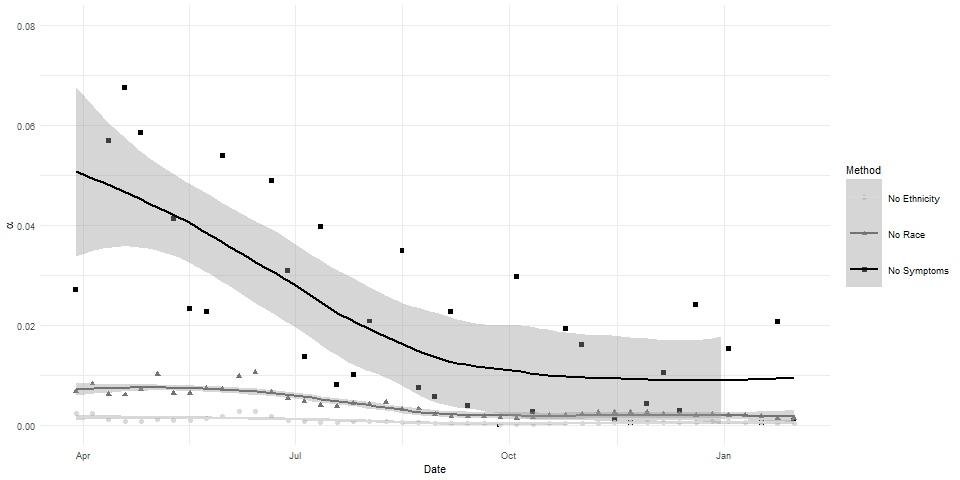
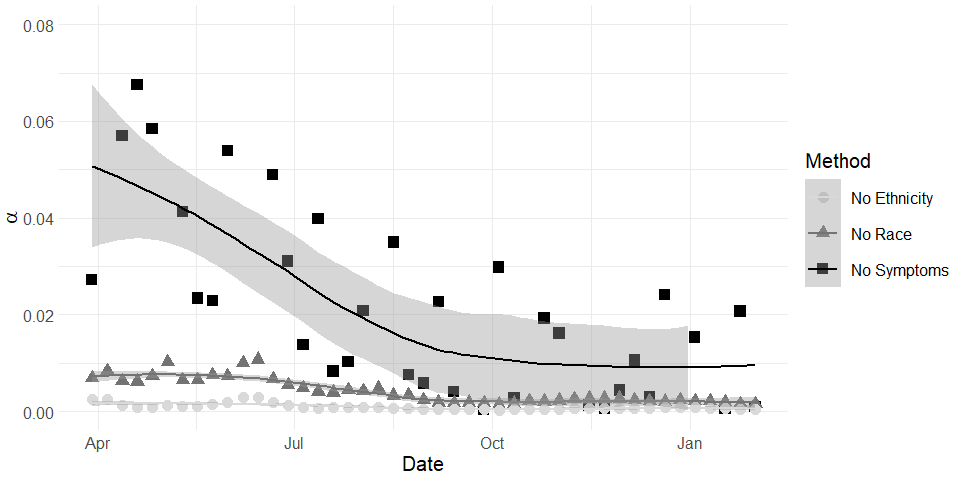
Sensitivity analysis complete :)

diff --git a/write-up/covid-supplement-writeup.tex b/write-up/covid-supplement-writeup.tex
@@ -1022,7 +1022,7 @@ E[ Y_t | i_t, x_t, u_t] &= l_t(i_t, x_t) + \delta_t u_t
 \end{align*}
 for functions~$h_t$ and $l_t$ that depend on time. Re-arranging terms we have
 $$
-E[ Y_t | i_t x_t, u_t ] = l_t(i_t,x)  + \frac{\delta_t}{\alpha_t} \left( \logit \pi \left( I_{t} = 1  | x_{t}, u_{t} \right) - h_t (x_t) \right)
+E[ Y_t | i_t, x_t, u_t ] = l_t(i_t,x)  + \frac{\delta_t}{\alpha_t} \left( \logit \pi \left( I_{t} = 1  | x_{t}, u_{t} \right) - h_t (x_t) \right)
 $$
 The key idea in~\cite{Imbens2003} is that positing a distribution on $\pi(I_t = 1 | x_y, u_t)$ directly allows one to circumvent the need to specify a distribution for~$U_t$, a highly non-trivial task.
 
@@ -1038,7 +1038,7 @@ Y_t | I_t, X_t, U_t &\sim \text{Bern}(\rho_t(X_t, U_t))
 \end{equation}
 The time-varying sensitivity parameter~$\alpha_t \in (0,1)$  controls the influence of the unobserved confounder~$U_t$ on selection propensity. In particular, $\alpha_t$ measures the change in belief of how likely an individual self-selects into the non-probabilistic sample at time~$t$:
 $$
-\alpha_t = E[ \pi_t (X_t,U_t) | I = 1] - E[ \pi_t (X_t,U_t) | I = 0].
+\alpha_t = E[ \pi_t (X_t,U_t) | I_t = 1] - E[ \pi_t (X_t,U_t) | I_t = 0].
 $$
 The sensitivity model satisfies the requirement that the self-selection propensity and conditional expectation outcome model can match the observed data:
 \begin{align*}
@@ -1121,7 +1121,7 @@ Note that this is an expectation over the population.  Thus, estimation requires
 
 Following~\cite{Veitch2020}, we re-express the outcome-confounder strength in terms of the partial coefficient of determination
 $$
-R_t^2 (\alpha_t, \delta_t) = \frac{\EE [( Y_{J,t} - Q_t(1,X_{J,t}) )^2 | I_{J,t}=1 ] - \EE[ (Y_{J,t} - \EE[ Y_{J,t} | X_{J,t}, U_{J,t} ])^2 | I_{J,t} = 1]}{E[(Y_{J,t} - Q_t(1,X_{J,t}))^2 | I = 1]}
+R_t^2 (\alpha_t, \delta_t) = \frac{\EE [( Y_{J,t} - Q_t(1,X_{J,t}) )^2 | I_{J,t}=1 ] - \EE[ (Y_{J,t} - \EE[ Y_{J,t} | X_{J,t}, U_{J,t} ])^2 | I_{J,t} = 1]}{E[(Y_{J,t} - Q_t(1,X_{J,t}))^2 | I_t = 1]}
 $$
 in terms of $\delta_t^2$. To do so, write
 \begin{align*}
@@ -1151,13 +1151,13 @@ which is a more convenient form when trying to estimate the parameter from obser
 
 \subsection{Calibration of sensitivity parameters}
 
-Based on~\eqref{eq:partialcoef} and~\eqref{eq:alphaest}, one can use the probability and nonprobability samples to calibrate the sensitivity parameters to be in line with the observed covariate influence on treatment and outcome.  That is, for a given observed covariate~$Z_{J,t}$, we wish to measure the degree of influence it has on self-selection and outcome given the other observed covariates~$X_{J,t} \backslash Z_{J,t}$.  Note that this dependence is likely time-varying, which is why it is important estimate~$\alpha_t$ and~$R_t^2$ as functions of time~$t$.
+Based on~\eqref{eq:partialcoef} and~\eqref{eq:alphaest}, one can use the probability and nonprobability samples to calibrate the sensitivity parameters to be in line with the observed covariate influence on treatment and outcome.  That is, for a given observed covariate~$Z_{J,t}$, we wish to measure the degree of influence it has on self-selection and outcome given the other observed covariates~$X_{J,t} \backslash Z_{J,t}$.  Note that this dependence is likely time-varying, which is why it is important that~$\alpha_t$ and~$R_t^2$ are functions of time~$t$.
 
 For the outcome, we can measure the partial coefficient of determination as:
 $$
 R_{t, Z}^2 := \frac{\frac{1}{n} \sum_{i=1}^n (y_{i,t} - \hat Q_{t,Z} (1, x_{i,t} \backslash z_{i,t}) )^2 - \frac{1}{n} \sum_{i=1}^n (y_{i,t} - \hat Q_{t,Z} (1, x_{i,t}) )^2}{\frac{1}{n} \sum_{i=1}^n (y_{i,t} - \hat Q_{t,Z} (1, x_{i,t} \backslash z_{i,t}) )^2}.
 $$
-We can measure influence of $Z$ on self-selection propensity given $X_{J,t} \backslash Z_{J,t}$ by
+among the non-probabilistic sample.  We can measure influence of $Z$ on self-selection propensity given $X_{J,t} \backslash Z_{J,t}$ by
 $$
 \hat \alpha_{t, Z} := 1 - \frac{\sum_{j=1}^N I_{j,t}^R W_{j,t}^R \cdot \hat \pi(X_{J,t}) (1- \hat \pi(X_{J,t}))}{\sum_{j=1}^N I_{j,t}^R W_{j,t}^R \cdot \hat \pi(X_{J,t} \backslash Z_{J,t}) (1- \hat \pi(X_{J,t} \backslash Z_{J,t}))}
 $$
@@ -1165,11 +1165,31 @@ where~$\hat \pi_t (\cdot)$ is the fitted self-selection probability based on~\eq
 
 \subsection{IPW Sensitivity Analysis of COVID-19 Active Infection Prevalence in Indiana}
 
-Here we perform a sensitivity analysis of the IPW estimator of COVID-19 active infection prevalence in indiana.  While~\cite{Veitch2020} use Austen plots, we do not have such a simple visualization due to time-dependence.  To handle this, for each observed covariate~$Z$, we plot $(\alpha_{t,Z}, R^2_{t,Z})$ in the $[0,1]^2$.  These ``calibration curves'' help us in selection of a range of values for~$(\alpha_t, R^2_t)$ in our sensitivity analysis. Here, we consider $Z$ to be separately (a) age, (b) gender, (c) race, and (d) symptom status.  The four plots are presented in Figure XX.
+Here we perform a sensitivity analysis of the IPW estimator of COVID-19 active infection prevalence in indiana.  While~\cite{Veitch2020} use Austen plots, we do not have such a simple visualization due to time-dependence.  Here, we plot  $\alpha_{t,Z}$ and $R^2_{t,Z}$ as functions of time for three covariates that demonstrate different patterns: (1) Symptoms, (2) Race, and (3) Ethnicity.  Figures~\ref{fig:alpha_sensitivity} and~\ref{fig:rsq_sensitivity} present these ``calibration curves.'' Figure~\ref{fig:bias_sensitivity} presents the bias under these three curves.  Here, we see that if an unobserved confounder has similar strength in selection-confounder and outcome-confounder relationships as ``Symptom Status'', then bias would be high even into 2022.  However, bias under an unobserved confounder with similar strength to ``Ethnicitiy'' dissipates significantly by late 2021.
 
-
-
-
+\begin{figure}[!th]
+ \centering
+ \begin{subfigure}{.5\textwidth}
+  \centering
+  \includegraphics[width=.9\linewidth]{../figs/alpha_sensitivity_fig.png}
+  \caption{Calibration curves for~$\alpha$ per week}
+  \label{fig:alpha_sensitivity}
+ \end{subfigure}
+ \begin{subfigure}{.45\textwidth}
+  \centering
+  \includegraphics[width=.9\linewidth]{../figs/rsq_sensitivity_fig.png}
+ \caption{Calibration curves for~$R^2$ per week}
+ \label{fig:rsq_sensitivity}
+ \end{subfigure} \\ [1ex]
+ \begin{subfigure}{\linewidth}
+ \centering
+ \includegraphics[width=.5\linewidth]{../figs/bias_sensitivity_fig.png}
+  \caption{Bias as a function of~$\alpha$ and~$R^2$ calibration curves}
+  \label{fig:bias_sensitivity}
+ \end{subfigure}
+ \caption{Sensitivity analysis for time-varying active infection rate estimates}
+ \label{fig:sensitivity}
+ \end{figure}
 
 
 
